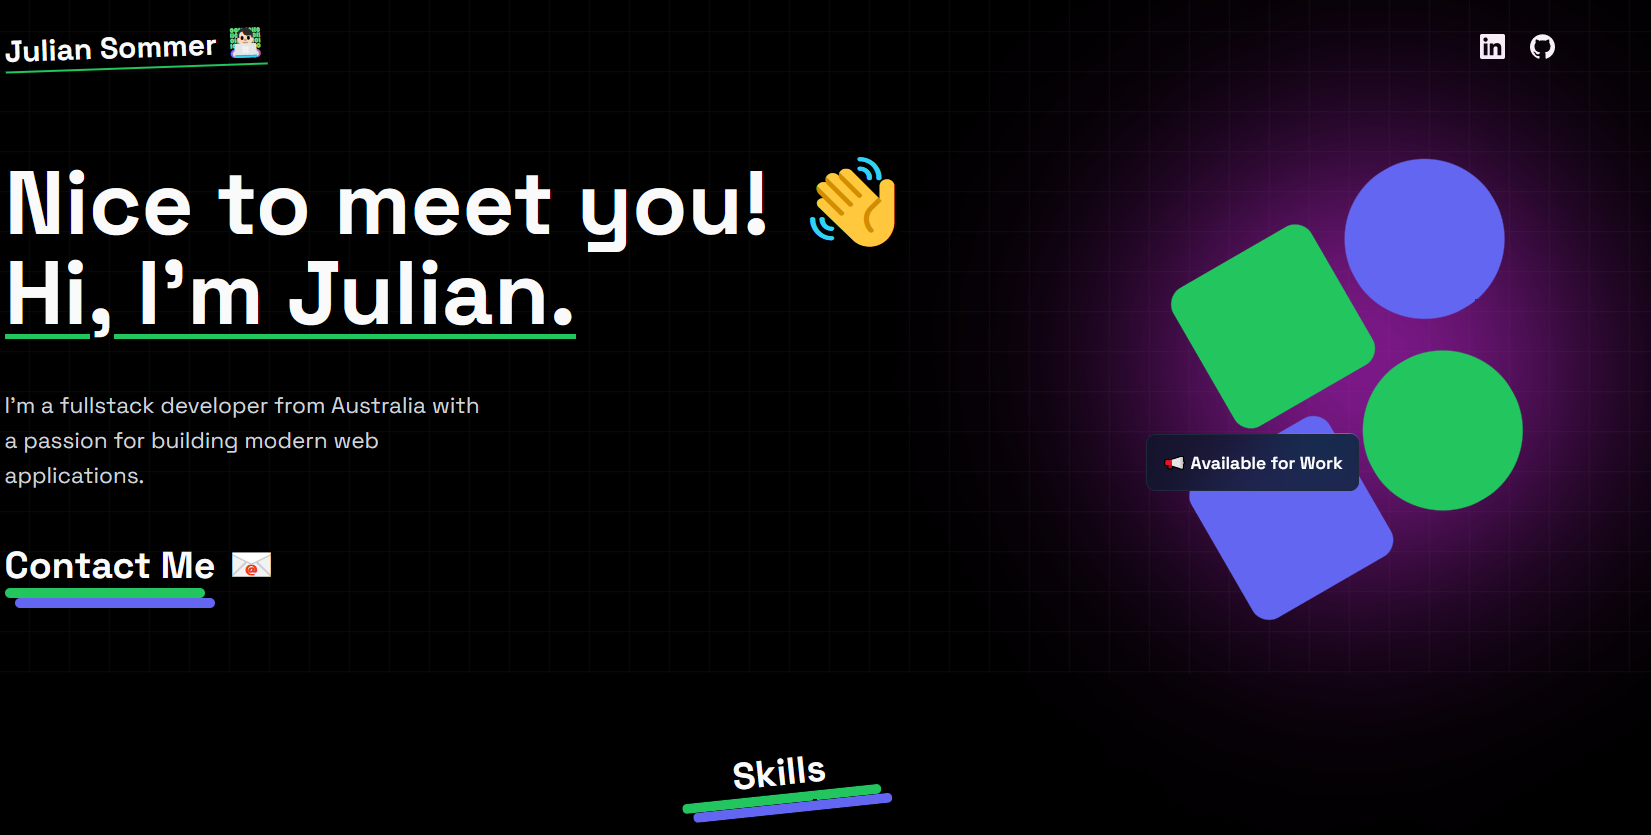
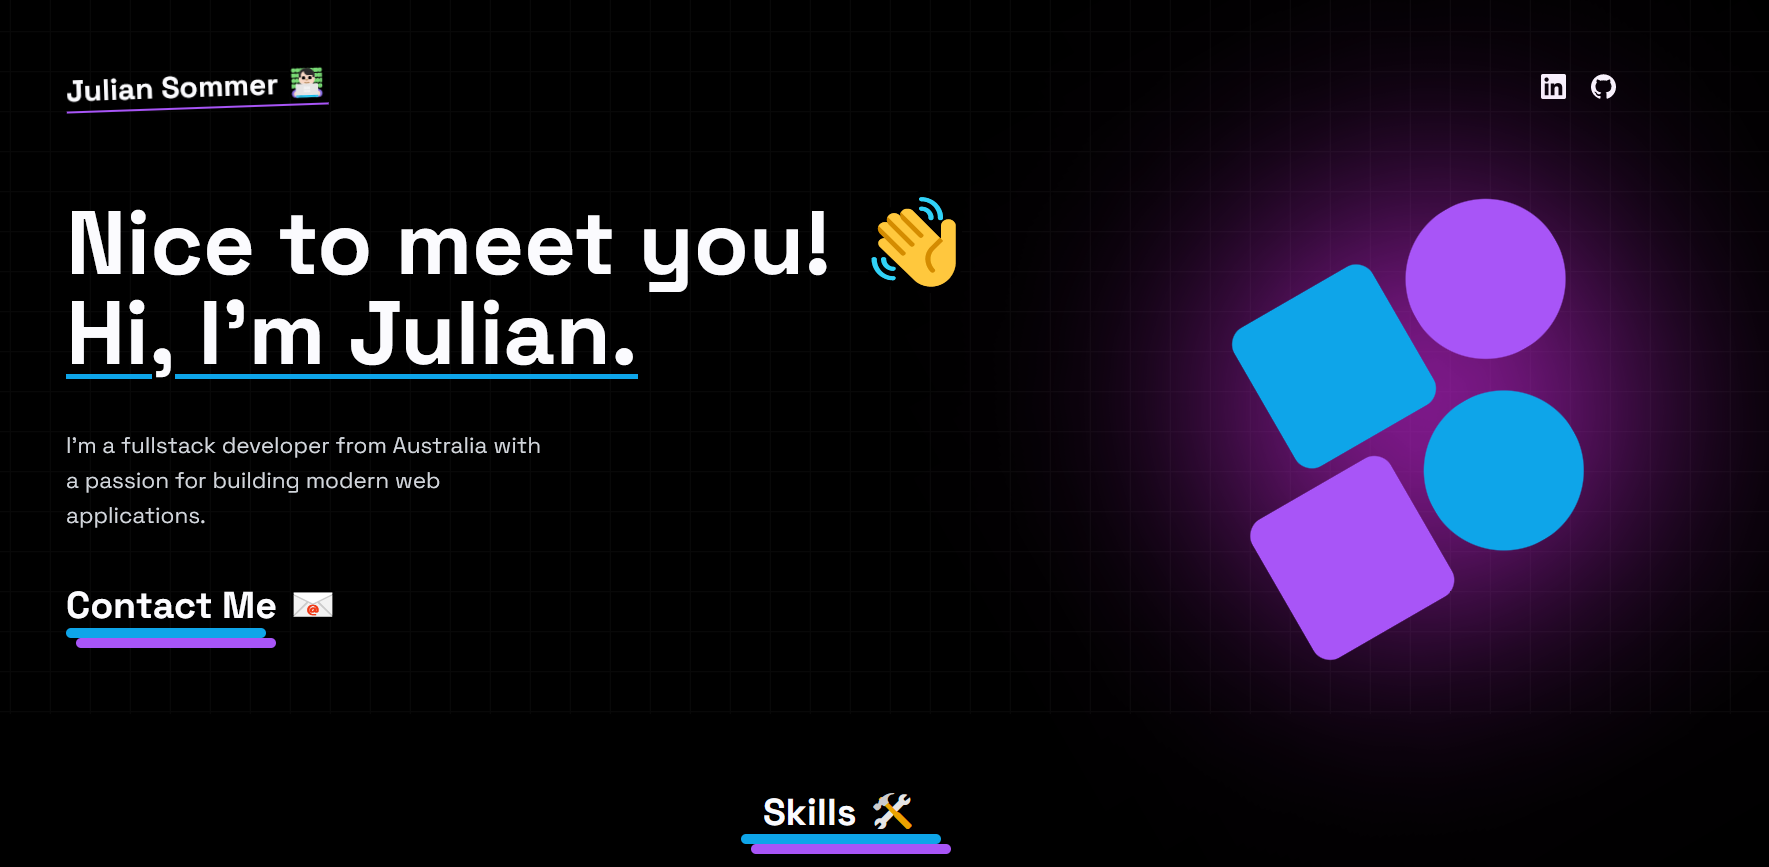
file structure changes

diff --git a/tailwind.config.ts b/tailwind.config.ts
@@ -14,54 +14,7 @@ const config = {
   ],
   prefix: "",
   theme: {
-    container: {
-      center: true,
-      padding: "2rem",
-      screens: {
-        "2xl": "1400px",
-      },
-    },
     extend: {
-      colors: {
-        border: "hsl(var(--border))",
-        input: "hsl(var(--input))",
-        ring: "hsl(var(--ring))",
-        background: "hsl(var(--background))",
-        foreground: "hsl(var(--foreground))",
-        primary: {
-          DEFAULT: "hsl(var(--primary))",
-          foreground: "hsl(var(--primary-foreground))",
-        },
-        secondary: {
-          DEFAULT: "hsl(var(--secondary))",
-          foreground: "hsl(var(--secondary-foreground))",
-        },
-        destructive: {
-          DEFAULT: "hsl(var(--destructive))",
-          foreground: "hsl(var(--destructive-foreground))",
-        },
-        muted: {
-          DEFAULT: "hsl(var(--muted))",
-          foreground: "hsl(var(--muted-foreground))",
-        },
-        accent: {
-          DEFAULT: "hsl(var(--accent))",
-          foreground: "hsl(var(--accent-foreground))",
-        },
-        popover: {
-          DEFAULT: "hsl(var(--popover))",
-          foreground: "hsl(var(--popover-foreground))",
-        },
-        card: {
-          DEFAULT: "hsl(var(--card))",
-          foreground: "hsl(var(--card-foreground))",
-        },
-      },
-      borderRadius: {
-        lg: "var(--radius)",
-        md: "calc(var(--radius) - 2px)",
-        sm: "calc(var(--radius) - 4px)",
-      },
       keyframes: {
         "move-up": {
           from: {
@@ -83,18 +36,8 @@ const config = {
             opacity: "1"
           }
         },
-        "accordion-down": {
-          from: { height: "0" },
-          to: { height: "var(--radix-accordion-content-height)" },
-        },
-        "accordion-up": {
-          from: { height: "var(--radix-accordion-content-height)" },
-          to: { height: "0" },
-        },
       },
       animation: {
-        "accordion-down": "accordion-down 0.2s ease-out",
-        "accordion-up": "accordion-up 0.2s ease-out",
         "move-up": "move-up 1s linear forwards",
         "move-down": "move-down 1s linear forwards"
       },

diff --git a/src/components/HeroSection.tsx b/src/components/HeroSection.tsx
@@ -1,4 +1,3 @@
-import { MovingBorderBtn } from "@/components/ui/MovingBorder"
 import Link from "next/link"
 import Title from "./Title"
 
@@ -9,7 +8,7 @@ export default function HeroSection() {
         <h1 className="text-4xl font-bold lg:text-7xl">
           Nice to meet you! 👋
           <br />
-          <span className="underline decoration-green-500 underline-offset-8">
+          <span className="underline decoration-sky-500 underline-offset-8">
             Hi, I&apos;m Julian.
           </span>
         </h1>
@@ -18,27 +17,22 @@ export default function HeroSection() {
           building modern web applications.
         </p>
         <Link href={"mailto:hi@julians.au"} className="group inline-block">
-          <Title text={"Contact Me 📧"} />
+          <Title text={"Contact 📧"} />
         </Link>
       </div>
+
+      {/* The Shapes on the Right */}
       <div className="relative">
         <div className="relative h-72 w-72 -rotate-[30deg] space-y-3">
           <div className="flex translate-x-8 gap-3">
-            <div className="h-32 w-32 rounded-2xl bg-green-500"></div>
-            <div className="h-32 w-32 rounded-full bg-indigo-500"></div>
+            <div className="h-32 w-32 rounded-2xl bg-sky-500"></div>
+            <div className="h-32 w-32 rounded-full bg-purple-500"></div>
           </div>
           <div className="flex -translate-x-8 gap-3">
-            <div className="h-32 w-32 rounded-2xl bg-indigo-500"></div>
-            <div className="h-32 w-32 rounded-full bg-green-500"></div>
+            <div className="h-32 w-32 rounded-2xl bg-purple-500"></div>
+            <div className="h-32 w-32 rounded-full bg-sky-500"></div>
           </div>
           <div className="glow absolute right-1/2 top-[40%] -z-10"></div>
-        </div>
-        <div className="absolute bottom-5 left-0 sm:-left-10 sm:bottom-14">
-          {/*
-          <MovingBorderBtn borderRadius="0.5rem" className="p-3 font-semibold">
-            <p>📢 Available for Work</p>
-          </MovingBorderBtn>
-          */}
         </div>
       </div>
     </div>

diff --git a/src/components/ui/CardHoverEffect.tsx b/src/components/ui/CardHoverEffect.tsx
@@ -1,5 +1,5 @@
 "use client"
-import { cn } from "@/lib/utils"
+import cn from "@/utils/cn"
 import { AnimatePresence, motion } from "framer-motion"
 import { useState } from "react"
 import { IconType } from "react-icons"
@@ -23,13 +23,13 @@ export const HoverEffect = ({
         return (
           <div
             key={idx}
-            className="group relative  block h-full w-full p-2"
+            className="group relative block h-full w-full p-2"
             onMouseEnter={() => setHoveredIndex(idx)}
             onMouseLeave={() => setHoveredIndex(null)}>
             <AnimatePresence>
               {hoveredIndex === idx && (
                 <motion.span
-                  className="absolute inset-0 block h-full w-full rounded-lg bg-neutral-200  dark:bg-slate-800/[0.8]"
+                  className="absolute inset-0 block h-full w-full rounded-lg bg-neutral-200 dark:bg-slate-800/[0.8]"
                   layoutId="hoverBackground"
                   initial={{ opacity: 0 }}
                   animate={{
@@ -43,7 +43,7 @@ export const HoverEffect = ({
                 />
               )}
             </AnimatePresence>
-            <div className="relative z-20 w-full cursor-pointer overflow-hidden rounded-md bg-black p-4 ring-green-500 transition-all duration-500 group-hover:ring-2">
+            <div className="relative z-20 w-full cursor-pointer overflow-hidden rounded-md bg-black p-4 ring-sky-500 transition-all duration-500 group-hover:ring-2">
               <div className="relative z-50 space-y-5 py-10 ">
                 <Icon className="mx-auto h-8 w-8" />
                 <p className="text-center text-2xl font-bold text-gray-300">

diff --git a/src/app/globals.css b/src/app/globals.css
@@ -2,79 +2,6 @@
 @tailwind components;
 @tailwind utilities;
 
-@layer base {
-  :root {
-    --background: 0 0% 100%;
-    --foreground: 240 10% 3.9%;
-
-    --card: 0 0% 100%;
-    --card-foreground: 240 10% 3.9%;
-
-    --popover: 0 0% 100%;
-    --popover-foreground: 240 10% 3.9%;
-
-    --primary: 240 5.9% 10%;
-    --primary-foreground: 0 0% 98%;
-
-    --secondary: 240 4.8% 95.9%;
-    --secondary-foreground: 240 5.9% 10%;
-
-    --muted: 240 4.8% 95.9%;
-    --muted-foreground: 240 3.8% 46.1%;
-
-    --accent: 240 4.8% 95.9%;
-    --accent-foreground: 240 5.9% 10%;
-
-    --destructive: 0 84.2% 60.2%;
-    --destructive-foreground: 0 0% 98%;
-
-    --border: 240 5.9% 90%;
-    --input: 240 5.9% 90%;
-    --ring: 240 10% 3.9%;
-
-    --radius: 0.5rem;
-  }
-
-  .dark {
-    --background: 240 10% 3.9%;
-    --foreground: 0 0% 98%;
-
-    --card: 240 10% 3.9%;
-    --card-foreground: 0 0% 98%;
-
-    --popover: 240 10% 3.9%;
-    --popover-foreground: 0 0% 98%;
-
-    --primary: 0 0% 98%;
-    --primary-foreground: 240 5.9% 10%;
-
-    --secondary: 240 3.7% 15.9%;
-    --secondary-foreground: 0 0% 98%;
-
-    --muted: 240 3.7% 15.9%;
-    --muted-foreground: 240 5% 64.9%;
-
-    --accent: 240 3.7% 15.9%;
-    --accent-foreground: 0 0% 98%;
-
-    --destructive: 0 62.8% 30.6%;
-    --destructive-foreground: 0 0% 98%;
-
-    --border: 240 3.7% 15.9%;
-    --input: 240 3.7% 15.9%;
-    --ring: 240 4.9% 83.9%;
-  }
-}
-
-@layer base {
-  * {
-    @apply border-border;
-  }
-  body {
-    @apply bg-background text-foreground;
-  }
-}
-
 .glow {
   width: 0px;
   height: 0px;

diff --git a/src/components/Projects.tsx b/src/components/Projects.tsx
@@ -7,7 +7,7 @@ import {
 } from "react-icons/si"
 import Title from "./Title"
 import Link from "next/link"
-import { cn } from "@/lib/utils"
+import cn from "@/utils/cn"
 import { DirectionAwareHover } from "@/components/ui/DirectionAwareHover"
 
 export default function Projects() {
@@ -17,14 +17,14 @@ export default function Projects() {
       tech: [SiNextdotjs, SiReact, SiTypescript, SiTailwindcss, SiMongodb],
       link: "https://github.com/juliansommer/prompts",
       cover: "/prompts.png",
-      background: "bg-indigo-500",
+      background: "bg-sky-500",
     },
     {
       title: "Site",
       tech: [SiNextdotjs, SiReact, SiTypescript, SiTailwindcss],
       link: "https://github.com/juliansommer/site",
       cover: "/site.png",
-      background: "bg-green-500",
+      background: "bg-purple-500",
     },
   ]
   return (

diff --git a/src/app/layout.tsx b/src/app/layout.tsx
@@ -1,9 +1,9 @@
 import type { Metadata } from "next"
-import { Space_Grotesk } from "next/font/google"
+import { Inter } from "next/font/google"
 import "./globals.css"
 import { ThemeProvider } from "@/components/ThemeProvider"
 
-const space_grotesk = Space_Grotesk({ subsets: ["latin"] })
+const inter = Inter({ subsets: ["latin"] })
 
 export const metadata: Metadata = {
   authors: {
@@ -36,7 +36,7 @@ export default function RootLayout({
   return (
     <html lang="en" suppressHydrationWarning>
       <head>
-        <body className={space_grotesk.className}>
+        <body className={inter.className}>
           <ThemeProvider
             attribute="class"
             defaultTheme="dark"

diff --git a/src/components/Navbar.tsx b/src/components/Navbar.tsx
@@ -1,4 +1,4 @@
-import { cn } from "@/lib/utils"
+import cn from "@/utils/cn"
 import Link from "next/link"
 import { SiGithub, SiLinkedin } from "react-icons/si"
 
@@ -21,7 +21,7 @@ export default function Navbar({ className }: { className?: string }) {
         "animate-move-down flex items-center justify-between py-10",
         className,
       )}>
-      <h1 className="-rotate-2 text-2xl font-bold underline decoration-green-500 underline-offset-8">
+      <h1 className="-rotate-2 text-2xl font-bold underline decoration-purple-500 underline-offset-8">
         Julian Sommer 👨🏻💻
       </h1>
       <div className="item-center flex gap-5">

diff --git a/src/app/page.tsx b/src/app/page.tsx
@@ -1,8 +1,8 @@
-import HeroSection from "./components/HeroSection"
-import Navbar from "./components/Navbar"
-import Skills from "./components/Skills"
-import Projects from "./components/Projects"
-import Footer from "./components/Footer"
+import HeroSection from "@/components/HeroSection"
+import Navbar from "@/components/Navbar"
+import Skills from "@/components/Skills"
+import Projects from "@/components/Projects"
+import Footer from "@/components/Footer"
 
 export default function Home() {
   return (

diff --git a/src/components/Title.tsx b/src/components/Title.tsx
@@ -1,0 +1,17 @@
+export default function Title({
+  text,
+  className,
+}: {
+  text: string
+  className?: string
+}) {
+  return (
+    <div className={className}>
+      <h1 className="text-3xl font-bold transition-all group-hover:text-sky-400">
+        {text}
+      </h1>
+      <div className="h-2 w-40 rounded-full bg-sky-500"></div>
+      <div className="h-2 w-40 translate-x-2 rounded-full bg-purple-500"></div>
+    </div>
+  )
+}

diff --git a/src/components/ui/DirectionAwareHover.tsx b/src/components/ui/DirectionAwareHover.tsx
@@ -2,7 +2,7 @@
 import { useRef, useState } from "react"
 import Image from "next/image"
 import { AnimatePresence, motion } from "framer-motion"
-import { cn } from "@/lib/utils"
+import cn from "@/utils/cn"
 
 export const DirectionAwareHover = ({
   imageUrl,

diff --git a/src/utils/cn.ts b/src/utils/cn.ts
@@ -1,6 +1,6 @@
 import { type ClassValue, clsx } from "clsx"
 import { twMerge } from "tailwind-merge"
 
-export function cn(...inputs: ClassValue[]) {
+export default function cn(...inputs: ClassValue[]) {
   return twMerge(clsx(inputs))
 }
